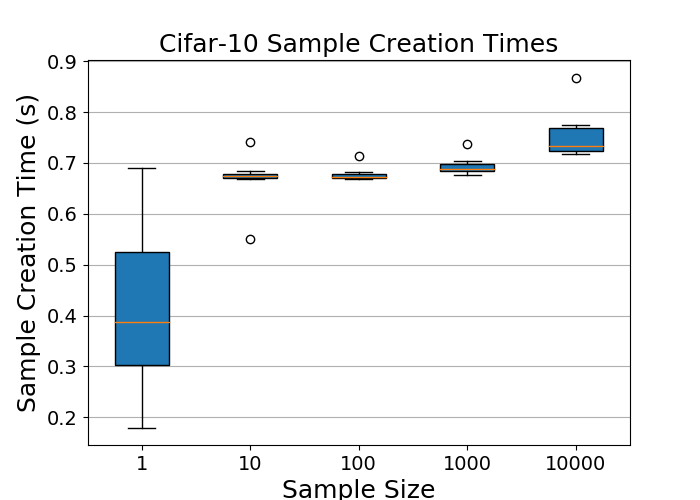
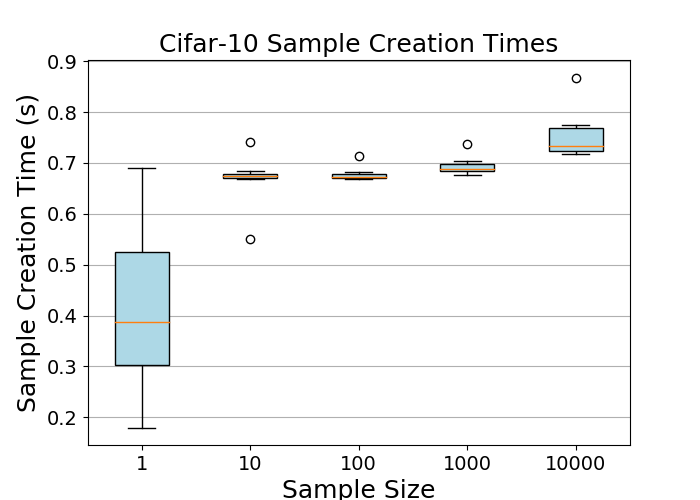
Complete hogwild plots

diff --git a/benchmarks/hogwild/plots/plot_convergence.py b/benchmarks/hogwild/plots/plot_convergence.py
@@ -1,0 +1,130 @@
+from pathlib import Path
+import math
+import matplotlib.pyplot as plt
+import numpy as np
+import pylab
+
+oa = [
+    2.310431718826294, 2.3044593334198, 2.2999351024627686, 2.302645206451416,
+    2.305140256881714, 2.304278612136841, 2.305345058441162, 2.305643081665039,
+    2.2953379154205322, 2.2945961952209473, 2.2974445819854736,
+    2.3022661209106445, 2.291269302368164, 2.290717601776123,
+    2.2888007164001465, 2.296182632446289, 2.286400556564331,
+    2.2910146713256836, 2.295991897583008, 2.272655963897705,
+    2.2934072017669678, 2.274665355682373, 2.2305684089660645,
+    2.2382869720458984, 2.3204245567321777, 2.342759847640991,
+    2.2820348739624023, 2.2226617336273193, 2.151423215866089,
+    2.2459020614624023, 2.2275006771087646, 2.142763137817383,
+    2.0960915088653564, 2.1954452991485596, 2.103869915008545,
+    2.0974860191345215, 2.3693454265594482, 2.0779247283935547,
+    2.248171806335449, 2.091695785522461, 2.1171560287475586,
+    2.0281434059143066, 1.9547799825668335, 2.0486371517181396,
+    1.907325267791748, 2.043123245239258, 2.025918483734131,
+    2.1420865058898926, 1.922833800315857, 2.028428554534912,
+    2.234170436859131, 1.711983561515808, 1.855607509613037,
+    2.1356916427612305, 2.058394193649292, 1.8293321132659912,
+    1.7653907537460327, 1.6710327863693237, 2.120668649673462,
+    1.977416753768921, 2.01466703414917, 1.7095742225646973,
+    1.7972968816757202, 1.835667371749878, 1.813649296760559,
+    1.6506456136703491, 1.8212352991104126, 1.7631133794784546,
+    2.006159543991089, 1.8940590620040894, 1.77767014503479,
+    1.8165675401687622, 1.5790164470672607, 1.9957212209701538,
+    1.8157849311828613, 1.8369755744934082, 1.8062738180160522,
+    2.02036452293396, 1.53107750415802, 1.464531660079956, 1.9184999465942383,
+    1.8831769227981567, 1.7480698823928833, 1.7008342742919922,
+    2.1173808574676514, 1.8246912956237793, 1.6952927112579346,
+    1.7756145000457764, 1.5981590747833252, 1.7205015420913696,
+    1.6052865982055664, 1.9077681303024292, 1.741557002067566,
+    1.4362589120864868, 1.4271641969680786, 1.7727869749069214,
+    1.6802165508270264, 1.6700048446655273, 1.764768123626709,
+    1.6664189100265503, 1.7431089878082275, 1.841097116470337,
+    1.609131097793579, 1.692051649093628, 1.9490209817886353,
+    1.3016743659973145, 1.6564037799835205, 1.5003793239593506,
+    1.577265977859497, 1.5513148307800293, 2.015777826309204,
+    1.7387953996658325, 1.5755693912506104, 1.517099142074585,
+    1.600704312324524, 1.681156873703003, 1.3915257453918457,
+    1.8454186916351318, 1.5253746509552002, 1.6675136089324951,
+    1.904675841331482, 1.3001149892807007, 1.3500734567642212,
+    1.421111822128296, 1.338475227355957, 1.8976962566375732,
+    1.4634175300598145, 1.1438446044921875, 1.8094542026519775,
+    1.421639323234558, 1.6332736015319824, 1.4899511337280273,
+    1.2700839042663574, 1.6670219898223877, 1.433416724205017,
+    1.6300684213638306, 1.4137150049209595, 1.7015812397003174,
+    1.602172613143921, 1.4118467569351196, 1.6460998058319092,
+    1.5490946769714355, 1.3902286291122437, 1.7114341259002686,
+    1.493067741394043, 1.5293599367141724, 1.1891926527023315,
+    1.2002012729644775, 1.4254976511001587, 1.4333221912384033,
+    1.6626935005187988, 1.3381460905075073, 1.631758213043213,
+    1.527137279510498, 1.3946272134780884, 1.617354393005371
+]
+pt = [
+    2.309093475341797, 2.29903244972229, 2.2979722023010254,
+    2.3146700859069824, 2.2988228797912598, 2.3095779418945312,
+    2.315662145614624, 2.291715145111084, 2.2961325645446777,
+    2.304250955581665, 2.297032356262207, 2.30222749710083, 2.297666072845459,
+    2.2927210330963135, 2.3093206882476807, 2.299983501434326,
+    2.2999722957611084, 2.2888784408569336, 2.290457248687744,
+    2.276545286178589, 2.2864463329315186, 2.2621915340423584,
+    2.2831177711486816, 2.206403970718384, 2.2706034183502197,
+    2.3174095153808594, 2.2077319622039795, 2.2165980339050293,
+    2.135857105255127, 2.130533218383789, 2.046015739440918,
+    2.1862354278564453, 2.1601943969726562, 1.9698059558868408,
+    2.119527578353882, 1.9596431255340576, 2.035116672515869,
+    1.9414715766906738, 2.0950546264648438, 2.1059789657592773,
+    1.9875943660736084, 2.246439218521118, 1.98484206199646, 2.056269645690918,
+    1.925750970840454, 2.095628023147583, 2.1306421756744385,
+    1.8586400747299194, 1.9911742210388184, 2.2050232887268066,
+    2.0071871280670166, 2.000347137451172, 1.6103558540344238,
+    2.0377726554870605, 1.9713151454925537, 1.9737203121185303,
+    1.7756128311157227, 1.776196837425232, 1.886519193649292,
+    2.053093433380127, 1.9902201890945435, 1.901827335357666,
+    1.784909963607788, 1.879426121711731, 1.6710565090179443,
+    1.809483528137207, 1.9051872491836548, 1.8594785928726196,
+    1.840088129043579, 1.7972636222839355, 1.8046557903289795,
+    1.7713732719421387, 1.716488003730774, 2.0590882301330566, 1.7366863489151,
+    1.638418436050415, 1.6430528163909912, 2.031158685684204,
+    1.8202089071273804, 1.4382100105285645, 1.7852904796600342,
+    1.8027703762054443, 2.0446808338165283, 1.6792430877685547,
+    1.5751527547836304, 1.6834783554077148, 2.0464272499084473,
+    1.575252652168274, 1.4901397228240967, 1.5762988328933716,
+    1.8482239246368408, 1.7038806676864624, 1.5288643836975098,
+    1.7010613679885864, 1.7013449668884277, 1.5429691076278687,
+    1.3439911603927612, 1.7403404712677002, 1.709581732749939,
+    1.4834586381912231, 1.4511845111846924, 1.5556445121765137,
+    1.7796345949172974, 1.7114813327789307, 1.5121259689331055,
+    1.3385242223739624, 1.8766744136810303, 1.7403178215026855,
+    1.4059736728668213, 1.5615800619125366, 1.3987661600112915,
+    1.3916569948196411, 1.8435180187225342, 1.5172559022903442,
+    1.523059368133545, 1.7093738317489624, 1.8336877822875977,
+    1.6907463073730469, 1.6465243101119995, 1.8130486011505127,
+    1.8594300746917725, 1.40418541431427, 1.8459088802337646,
+    1.5057564973831177, 1.273330807685852, 1.7335593700408936,
+    1.4547404050827026, 1.671050786972046, 1.8709566593170166,
+    1.4086576700210571, 1.6071624755859375, 1.3607245683670044,
+    1.6000163555145264, 1.9216904640197754, 1.281594157218933,
+    1.7730766534805298, 1.4627121686935425, 1.586707592010498,
+    1.4127451181411743, 1.4334553480148315, 1.3599401712417603,
+    1.4565072059631348, 1.37852942943573, 1.6175483465194702,
+    1.3432127237319946, 1.3964488506317139, 1.5373486280441284,
+    1.3805601596832275, 1.2533472776412964, 1.440510630607605,
+    1.4937564134597778, 1.4182919263839722, 1.447078824043274,
+    1.3968679904937744, 1.2916183471679688, 1.3860799074172974,
+    1.3477157354354858
+]
+
+fig, ax = plt.subplots()
+fig.set_figheight(5)
+fig.set_figwidth(7)
+
+plt.xticks(fontsize=14)
+plt.yticks(fontsize=14)
+
+line, = ax.plot(oa, color='blue', lw=2)
+line, = ax.plot(pt, color='red', lw=2)
+# ax.set_yscale('log')
+ax.legend(['One Access', 'PyTorch'],
+          loc=2,
+          prop={'size': 14})
+ax.set_xlabel('Iterations', fontsize=18)
+ax.set_ylabel('Loss', fontsize=18)
+plt.savefig("hogwild_convergence.png")

diff --git a/benchmarks/cifar10/plots/plot_sample_creator_benchmark.py b/benchmarks/cifar10/plots/plot_sample_creator_benchmark.py
@@ -23,12 +23,8 @@ bplot = ax.boxplot(
 ax.set_title('Cifar-10 Sample Creation Times', fontsize=18)
 
 # fill with colors
-"""
-colors = ['lightblue', 'lightblue', 'lightblue']
-
-for patch, color in zip(bplot['boxes'], colors):
-    patch.set_facecolor(color)
-"""
+for patch in bplot['boxes']:
+    patch.set(facecolor='lightblue')
 
 # adding horizontal grid lines
 ax.yaxis.grid(True)
